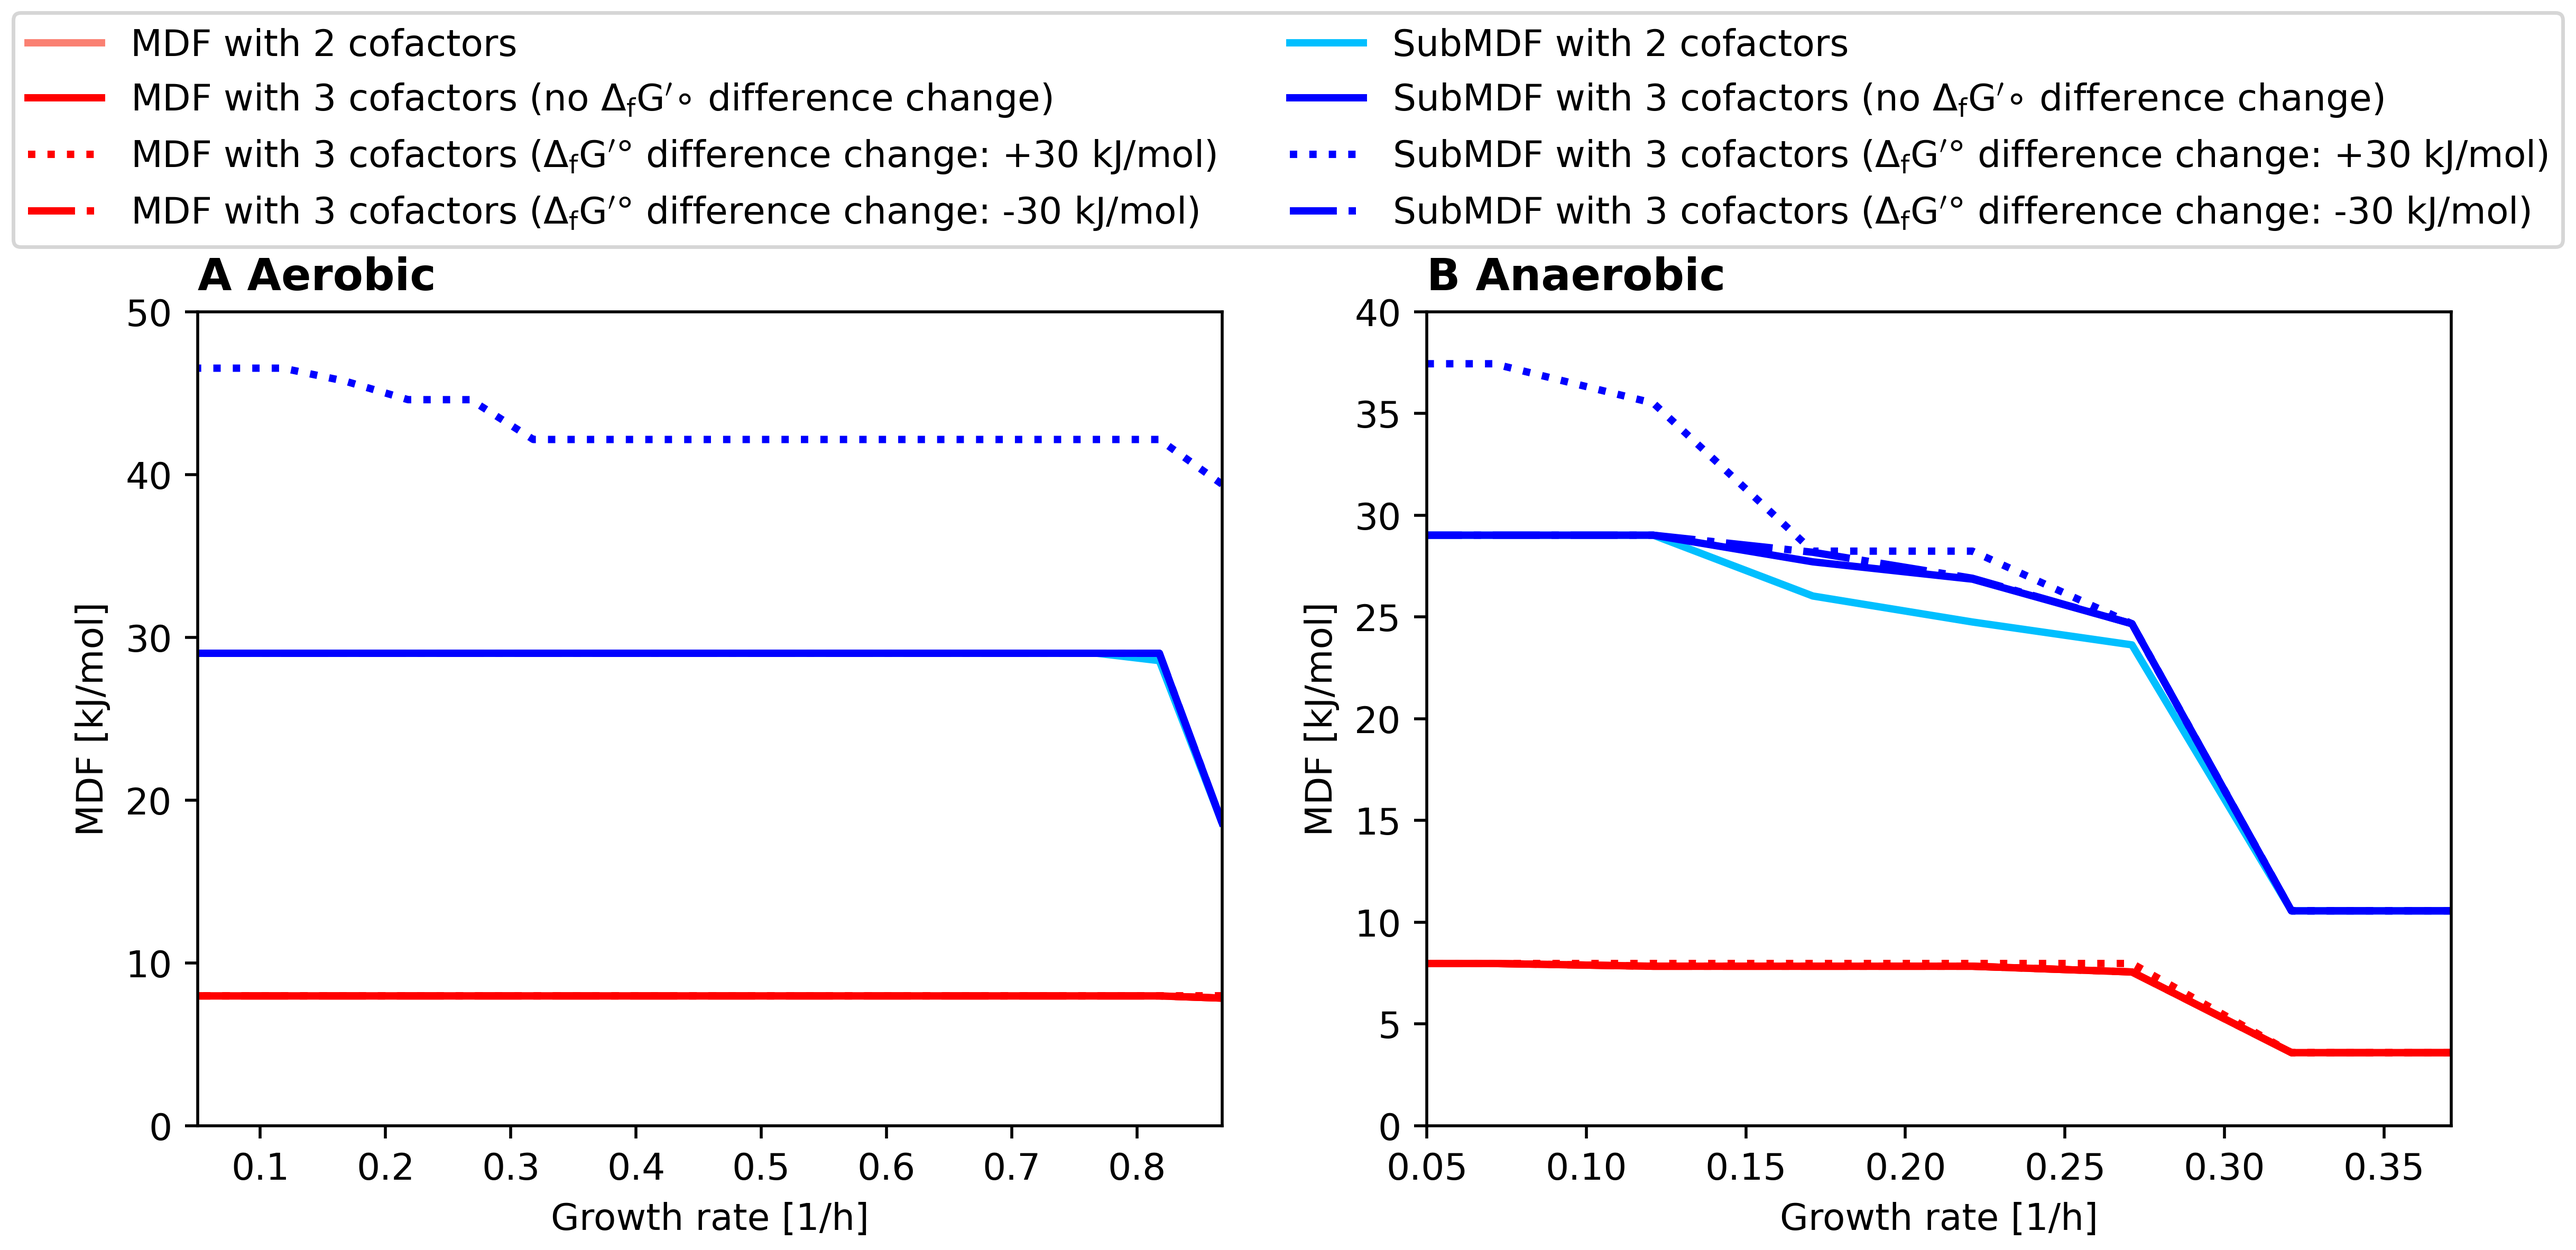
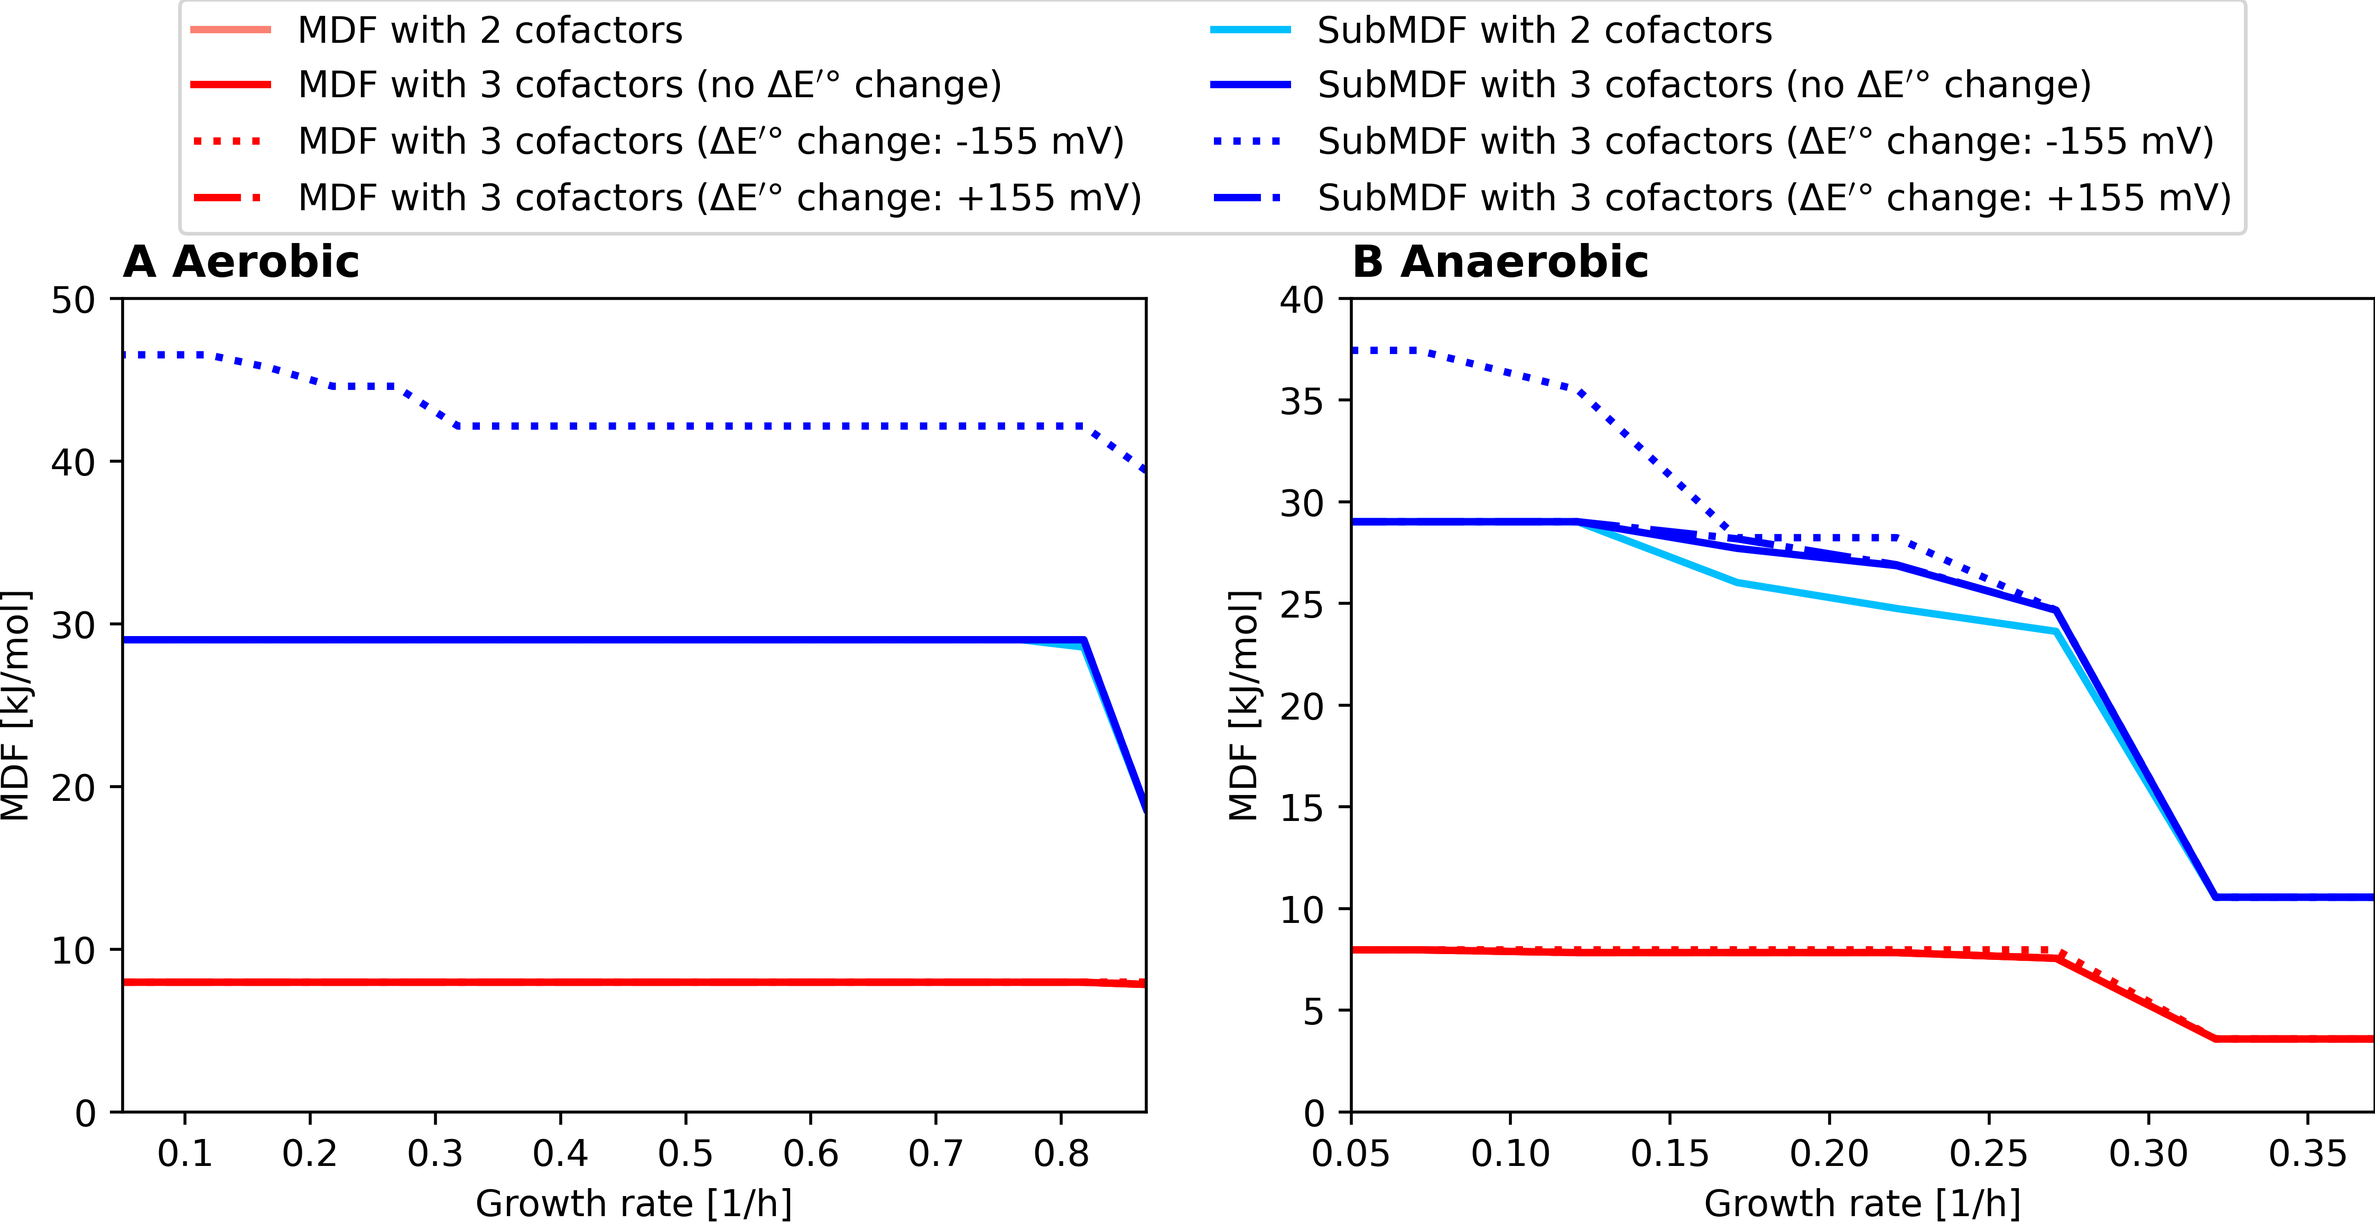
Updated figure

diff --git a/cosa_create_extended_model_figure.py b/cosa_create_extended_model_figure.py
@@ -31,12 +31,12 @@ for concentration_ranges in ("STANDARDCONC",): #"VIVOCONC"):
             for change_state in (0, 30, -30):
                 if change_state == 0:
                     extra = ""
-                    legend_addition = " (no $\mathrm{Δ_{f}G'∘}$ difference change)"
+                    legend_addition = " (no $\mathrm{ΔE'°}$ change)"
                 else:
                     extra = f"_nadz_change_{change_state}"
                     # legend_addition = f" (formation energy change: {'' if change_state<0 else '+'}{change_state} kJ/mol)"
                     r"$\mathrm{([NADH]/[NAD^{+}])/([NADPH]/[NADP^{+}])}$"
-                    legend_addition = r" ($\mathrm{Δ_{f}G'°}$ difference change: "+f"{'' if change_state<0 else '+'}{change_state} kJ/mol)"
+                    legend_addition = r" ($\mathrm{ΔE'°}$ change: "+f"{'+155' if change_state == -30 else '-155'} mV)"
                 file_path_optmdf = f"cosa/results_{aerobicity}/optmdf_table_{concentration_ranges}.csv"
                 file_path_expanded_optmdf = f"cosa/results_{aerobicity}_expanded{extra}/optmdf_table_{concentration_ranges}.csv"
                 file_path_optsubmdf = f"cosa/results_{aerobicity}/optsubmdf_table_{concentration_ranges}.csv"
@@ -118,5 +118,5 @@ for concentration_ranges in ("STANDARDCONC",): #"VIVOCONC"):
                     axs[axs_row].set_ylim(0.0, 40)
 
     fig.legend(loc="upper center", bbox_to_anchor=(0.5, 1.18), ncol=2)
-    fig.savefig(f"cosa/expanded_comparison_{concentration_ranges}.png", bbox_inches='tight', pad_inches=0.05)
+    fig.savefig(f"cosa/expanded_comparison_{concentration_ranges}.png", bbox_inches='tight', pad_inches=0.0)
     plt.close()
